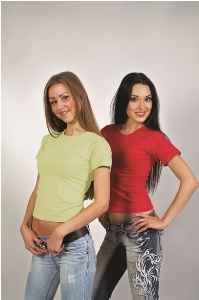
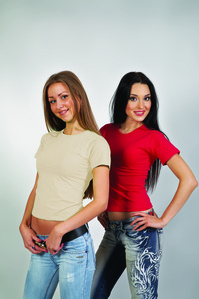
2

diff --git a/install_logo_products.rb b/install_logo_products.rb
@@ -1,0 +1,109 @@
+product_types = ProductType.all
+product_types.each do |type|
+	#1 Футболки/1
+	if (type.big_image_url == "wear/fff/f_m_kor/golub.jpg")
+		type.big_image_url = "wear/fff/f_m_kor/logo.jpg"
+		type.save
+	end
+
+	#2 Футболки/2
+	if (type.big_image_url == "wear/fff/f_f_kor/example.png")
+		type.big_image_url = "wear/fff/f_f_kor/logo.png"
+		type.save
+	end
+	#3 Футболки/3
+	if (type.big_image_url == "wear/fff/f_k_kor/green.jpg")
+		type.big_image_url = "wear/fff/f_k_kor/logo.jpg"
+		type.save
+	end
+
+	#4 Футболки/4
+	if (type.big_image_url == "wear/fff/f_m_dl/orange.jpg")
+		type.big_image_url = "wear/fff/f_m_dl/logo.jpg"
+		type.save
+	end
+
+	#5 Футболки/5
+	if (type.big_image_url == "wear/fff/f_m_kor_s/white.jpg")
+		type.big_image_url = "wear/fff/f_m_kor_s/logo.jpg"
+		type.save
+	end
+
+	#6 Футболки/6
+	if (type.big_image_url == "wear/fff/f_f_kor_s/pink.jpg")
+		type.big_image_url = "wear/fff/f_f_kor_s/logo.jpg"
+		type.save
+	end
+
+	#7 Футболки/7
+	if (type.big_image_url == "wear/fff/f_m_dl_s/sereb.jpg")
+		type.big_image_url = "wear/fff/f_m_dl_s/logo.jpg"
+		type.save
+	end
+
+	#8 Футболки/8
+	if (type.big_image_url == "wear/fff/f_f_dl_s/lime.jpg")
+		type.big_image_url = "wear/fff/f_f_dl_s/logo.jpg"
+		type.save
+	end
+
+	#9 Футболки/9
+	if (type.big_image_url == "wear/fff/f_b_kor/example.png")
+		type.big_image_url = "wear/fff/f_b_kor/logo.png"
+		type.save
+	end
+
+	#10 Футболки/10
+	if (type.big_image_url == "wear/fff/f_b_bez/example.png")
+		type.big_image_url = "wear/fff/f_b_bez/logo.png"
+		type.save
+	end
+
+	#11 Рубашки поло/11
+	if (type.big_image_url == "wear/rrr/r_m/green.png")
+		type.big_image_url = "wear/rrr/r_m/logo.png"
+		type.save
+	end
+
+	#12 Рубашки поло/12
+	if (type.big_image_url == "wear/rrr/r_f/slon.png")
+		type.big_image_url = "wear/rrr/r_f/logo.png"
+		type.save
+	end
+
+	#13 Толстовки/13
+	if (type.big_image_url == "wear/ttt/t_m/orange.png")
+		type.big_image_url = "wear/ttt/t_m/logo.png"
+		type.save
+	end
+
+	#14 Толстовки/14
+	if (type.big_image_url == "wear/ttt/t_f/tblue.png")
+		type.big_image_url = "wear/ttt/t_f/logo.png"
+		type.save
+	end
+
+	#15 Бейсболки/15
+	if (type.big_image_url == "wear/bbb/b_kl/green.jpg")
+		type.big_image_url = "wear/bbb/b_kl/logo.jpg"
+		type.save
+	end
+
+	#16 Бейсболки/16
+	if (type.big_image_url == "wear/bbb/b_kom/yellow.jpg")
+		type.big_image_url = "wear/bbb/b_kom/logo.jpg"
+		type.save
+	end
+
+	#17 Бейсболки/17
+	if (type.big_image_url == "wear/bbb/b_lx/white.jpg")
+		type.big_image_url = "wear/bbb/b_lx/logo.jpg"
+		type.save
+	end
+
+	#18 Бейсболки/18
+	if (type.big_image_url == "wear/bbb/b_lx_ex/orange_black.jpg")
+		type.big_image_url = "wear/bbb/b_lx_ex/logo.jpg"
+		type.save
+	end
+end

diff --git a/randomize_product_type_colors.rb b/randomize_product_type_colors.rb
@@ -1,0 +1,104 @@
+product_types = ProductType.all
+product_types.each do |type|
+	#1 Футболки/1
+	if (type.big_image_url == "wear/fff/f_m_kor/black.jpg")
+		type.big_image_url = "wear/fff/f_m_kor/golub.jpg"
+		type.save
+	end
+
+	#2 Футболки/2
+	#if (type.big_image_url == "wear/fff/f_f_kor/example.png")
+	#3 Футболки/3
+	if (type.big_image_url == "wear/fff/f_k_kor/black.jpg")
+		type.big_image_url = "wear/fff/f_k_kor/green.jpg"
+		type.save
+	end
+
+	#4 Футболки/4
+	if (type.big_image_url == "wear/fff/f_m_dl/black.jpg")
+		type.big_image_url = "wear/fff/f_m_dl/orange.jpg"
+		type.save
+	end
+
+	#5 Футболки/5
+	if (type.big_image_url == "wear/fff/f_m_kor_s/black.jpg")
+		type.big_image_url = "wear/fff/f_m_kor_s/white.jpg"
+		type.save
+	end
+
+	#6 Футболки/6
+	if (type.big_image_url == "wear/fff/f_f_kor_s/black.jpg")
+		type.big_image_url = "wear/fff/f_f_kor_s/pink.jpg"
+		type.save
+	end
+
+	#7 Футболки/7
+	if (type.big_image_url == "wear/fff/f_m_dl_s/black.jpg")
+		type.big_image_url = "wear/fff/f_m_dl_s/sereb.jpg"
+		type.save
+	end
+
+	#8 Футболки/8
+	if (type.big_image_url == "wear/fff/f_f_dl_s/black.jpg")
+		type.big_image_url = "wear/fff/f_f_dl_s/lime.jpg"
+		type.save
+	end
+
+	#9 Футболки/9
+	#if (type.big_image_url == "wear/fff/f_b_kor/black.jpg")
+	#	type.big_image_url = "wear/fff/f_b_kor/yablue.jpg"
+	#end
+
+	#10 Футболки/10
+	#if (type.big_image_url == "wear/fff/f_b_bez/black.jpg")
+	#	type.big_image_url = "wear/fff/f_b_bez/yablue.jpg"
+	#end
+
+	#11 Рубашки поло/11
+	if (type.big_image_url == "wear/rrr/r_m/black.png")
+		type.big_image_url = "wear/rrr/r_m/green.png"
+		type.save
+	end
+
+	#12 Рубашки поло/12
+	if (type.big_image_url == "wear/rrr/r_f/black.png")
+		type.big_image_url = "wear/rrr/r_f/slon.png"
+		type.save
+	end
+
+	#13 Толстовки/13
+	if (type.big_image_url == "wear/ttt/t_m/black.png")
+		type.big_image_url = "wear/ttt/t_m/orange.png"
+		type.save
+	end
+
+	#14 Толстовки/14
+	if (type.big_image_url == "wear/ttt/t_f/black.png")
+		type.big_image_url = "wear/ttt/t_f/tblue.png"
+		type.save
+	end
+
+	#15 Бейсболки/15
+	if (type.big_image_url == "wear/bbb/b_kl/black.jpg")
+		type.big_image_url = "wear/bbb/b_kl/green.jpg"
+		type.save
+	end
+
+	#16 Бейсболки/16
+	if (type.big_image_url == "wear/bbb/b_kom/black.jpg")
+		type.big_image_url = "wear/bbb/b_kom/yellow.jpg"
+		type.save
+	end
+
+	#17 Бейсболки/17
+	if (type.big_image_url == "wear/bbb/b_lx/black.jpg")
+		type.big_image_url = "wear/bbb/b_lx/white.jpg"
+		type.save
+	end
+
+	#18 Бейсболки/18
+	if (type.big_image_url == "wear/bbb/b_lx_ex/black.jpg")
+		type.big_image_url = "wear/bbb/b_lx_ex/orange_black.jpg"
+		type.save
+	end
+end

diff --git a/set_color_image.rb b/set_color_image.rb
@@ -1,0 +1,19 @@
+colors = ProductColor.find_all_by_product_type_id(2)
+colors.each do |color|
+	color.big_image_url = "wear/fff/f_f_kor/logo.png"
+	color.save
+end
+
+colors = ProductColor.find_all_by_product_type_id(9)
+colors.each do |color|
+	color.big_image_url = "wear/fff/f_b_kor/logo.png"
+	color.save
+end
+
+colors = ProductColor.find_all_by_product_type_id(10)
+colors.each do |color|
+	color.big_image_url = "wear/fff/f_b_bez/logo.png"
+	color.save
+end
+
+
